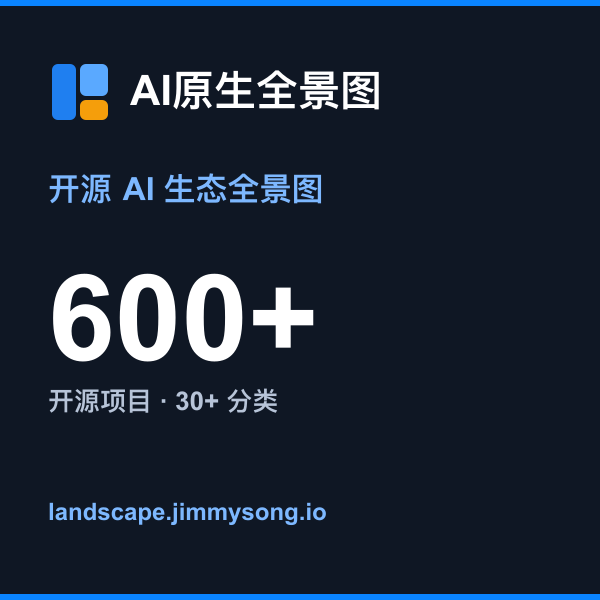
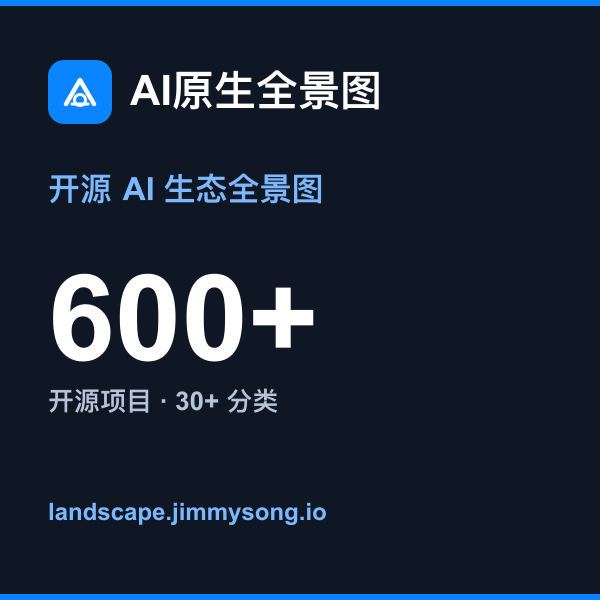
feat: implement HTML to JSON conversion in middleware and add support for JSON response; add new Open Graph images and sync project licenses from GitHub API

Changed region(s): [[0.06, 0.09, 0.21, 0.21]]

diff --git a/functions/_middleware.js b/functions/_middleware.js
@@ -231,11 +231,110 @@ function estimateTokens(text) {
   return Math.ceil(rest / 4 + cjk / 2);
 }
 
+function htmlToJson(html) {
+  const data = {};
+
+  // Title
+  const titleMatch = html.match(/<title[^>]*>([\s\S]*?)<\/title>/i);
+  if (titleMatch) {
+    data.title = decodeHtmlEntities(stripTags(titleMatch[1]).trim());
+  }
+
+  // Meta description
+  const descMatch = html.match(/<meta[^>]*name=["']description["'][^>]*content=["']([^"']*)["']/i)
+    || html.match(/<meta[^>]*content=["']([^"']*)["'][^>]*name=["']description["']/i);
+  if (descMatch) {
+    data.description = decodeHtmlEntities(descMatch[1]);
+  }
+
+  // OG image
+  const ogImageMatch = html.match(/<meta[^>]*property=["']og:image["'][^>]*content=["']([^"']*)["']/i)
+    || html.match(/<meta[^>]*content=["']([^"']*)["'][^>]*property=["']og:image["']/i);
+  if (ogImageMatch) {
+    data.image = ogImageMatch[1];
+  }
+
+  // Canonical URL
+  const canonicalMatch = html.match(/<link[^>]*rel=["']canonical["'][^>]*href=["']([^"']*)["']/i);
+  if (canonicalMatch) {
+    data.url = canonicalMatch[1];
+  }
+
+  // Lang
+  const langMatch = html.match(/<html[^>]*lang=["']([^"']*)["']/i);
+  if (langMatch) {
+    data.lang = langMatch[1];
+  }
+
+  // Extract main text content (strip all tags)
+  const bodyMatch = html.match(/<body[^>]*>([\s\S]*?)<\/body>/i);
+  const body = bodyMatch ? bodyMatch[1] : html;
+
+  // Remove nav, header, footer, script, style
+  let content = body.replace(/<(nav|header|footer|script|style|noscript|svg|canvas|template)[^>]*>[\s\S]*?<\/\1>/gi, '');
+  content = stripTags(content).replace(/&amp;/g, '&').replace(/&lt;/g, '<').replace(/&gt;/g, '>').replace(/&nbsp;/g, ' ');
+  content = content.replace(/\s+/g, ' ').trim();
+
+  data.textContent = content;
+
+  // Extract links
+  const links = [];
+  const linkRe = /<a[^>]*href=["']([^"']*)["'][^>]*>([\s\S]*?)<\/a>/gi;
+  let linkMatch;
+  while ((linkMatch = linkRe.exec(body)) !== null) {
+    const href = linkMatch[1];
+    const text = stripTags(linkMatch[2]).trim();
+    if (href && !href.startsWith('#') && !href.startsWith('javascript:') && text) {
+      links.push({ href, text });
+    }
+  }
+  if (links.length > 0) {
+    data.links = links.slice(0, 100);
+  }
+
+  // Also generate markdown for convenience
+  data.markdown = htmlToMarkdown(html);
+
+  return data;
+}
+
+const WECHAT_UA_RE = /MicroMessenger|WeChat|WeChatBot/i;
+
 export async function onRequest(context) {
   const accept = context.request.headers.get('accept') || '';
   const wantsMarkdown = accept.includes('text/markdown');
+  const wantsJson = accept.includes('application/json');
+  const ua = context.request.headers.get('user-agent') || '';
+  const isWeChat = WECHAT_UA_RE.test(ua);
 
-  if (!wantsMarkdown) {
+  // ── WeChat: rewrite og:image to square Chinese version ──
+  if (isWeChat && !wantsMarkdown && !wantsJson) {
+    const response = await context.next();
+    const contentType = response.headers.get('content-type') || '';
+    if (!contentType.includes('text/html')) return response;
+
+    const html = await response.text();
+    const rewritten = html
+      .replace(
+        /(<meta\s+property="og:image"\s+content=")[^"]*(")/i,
+        '$1https://landscape.jimmysong.io/og.png$2',
+      )
+      .replace(
+        /(<meta\s+property="og:image:width"\s+content=")[^"]*(")/i,
+        '$1600$2',
+      )
+      .replace(
+        /(<meta\s+property="og:image:height"\s+content=")[^"]*(")/i,
+        '$1600$2',
+      );
+
+    return new Response(rewritten, {
+      status: response.status,
+      headers: response.headers,
+    });
+  }
+
+  if (!wantsMarkdown && !wantsJson) {
     return context.next();
   }
 
@@ -247,6 +346,19 @@ export async function onRequest(context) {
   }
 
   const html = await response.text();
+
+  if (wantsJson) {
+    const data = htmlToJson(html);
+    return new Response(JSON.stringify(data, null, 2), {
+      status: 200,
+      headers: {
+        'Content-Type': 'application/json; charset=utf-8',
+        'X-Content-Type-Options': 'nosniff',
+      },
+    });
+  }
+
+  // Markdown output
   const markdown = htmlToMarkdown(html);
   const tokens = estimateTokens(markdown);
 
